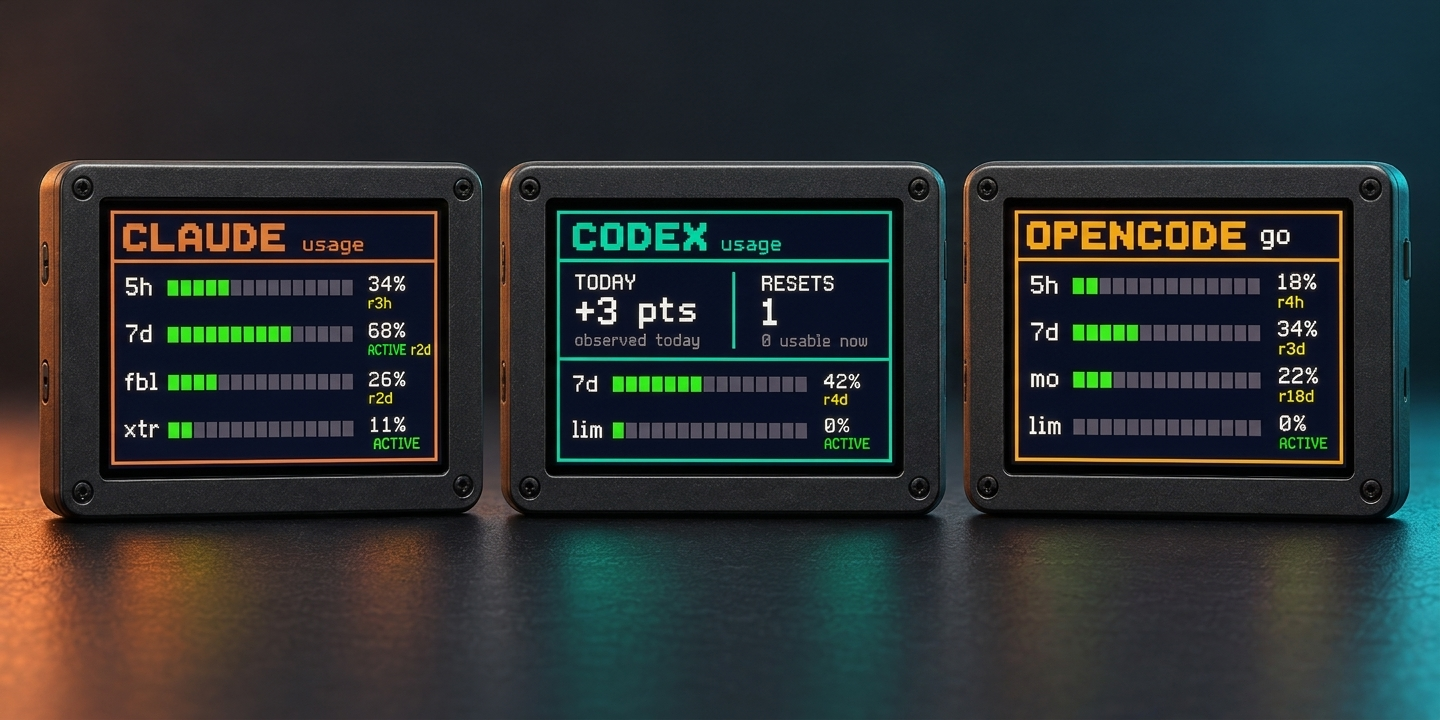
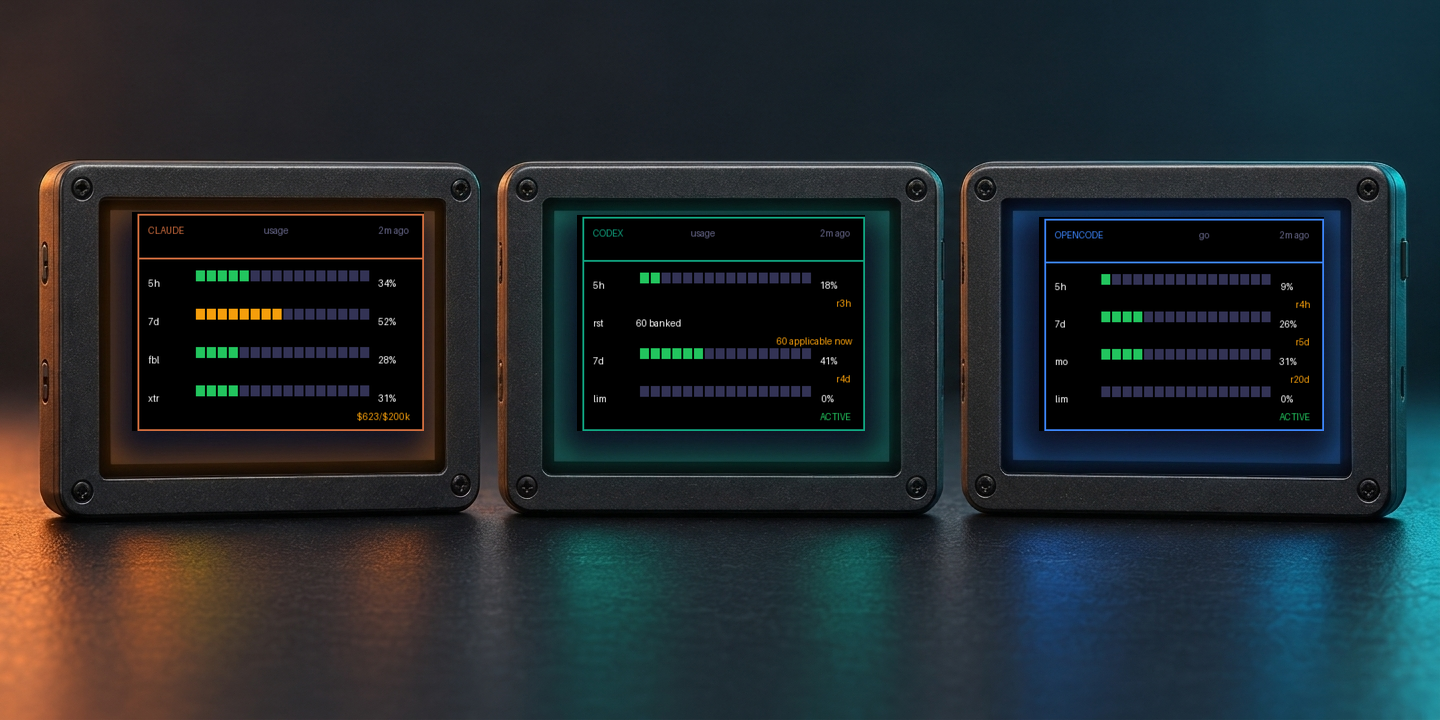
docs: composite hero from exact screen renders + AI scene
Two-stage pipeline replaces single-shot generation, whose failure mode
was re-inventing UI text and bar counts:
1. scripts/render-screens.py renders the three dashboard screens
   exactly as code.py draws them (real accents: CLAUDE orange #CC6B3D,
   CODEX teal #10A37F, OPENCODE blue #3B82F6; segmented bars whose fill
   always equals the printed percentage; verified with Jev).
2. Nano Banana generates the photorealistic scene with blank screens,
   with per-device glow specified explicitly (orange/teal/blue, local,
   no bleed); the exact screens are composited in deterministically.
Screen content is now correct by construction rather than by luck.

diff --git a/scripts/render-screens.py b/scripts/render-screens.py
@@ -1,0 +1,141 @@
+#!/usr/bin/env python3
+"""Render exact facsimiles of the three usage-dashboard screens.
+
+Replicates projects/usage-dashboard/code.py's layout and colors at native
+320x240 (then upscales) so the hero generator receives screens that are
+correct by construction: real accent colors, segmented bars whose fill
+always equals the printed percentage, and the real row labels.
+
+Usage: python scripts/render-screens.py [outdir]
+"""
+
+import sys
+from pathlib import Path
+
+from PIL import Image, ImageDraw, ImageFont
+
+W, H = 320, 240
+BLACK = (0, 0, 0)
+WHITE = (0xFF, 0xFF, 0xFF)
+ORANGE = (0xCC, 0x6B, 0x3D)
+TEAL = (0x10, 0xA3, 0x7F)
+BLUE = (0x3B, 0x82, 0xF6)
+SUB = (0x66, 0x66, 0x88)
+DIM = (0x33, 0x33, 0x55)
+GREEN = (0x22, 0xC5, 0x5E)
+AMBER = (0xF5, 0x9E, 0x0B)
+RED = (0xEF, 0x44, 0x44)
+
+BL = 6          # left border x
+Y_BTOP = 2
+Y_BSEP = 50
+Y_BBOT = H - 2
+ROW_SLOT = 42
+Y_ROW1 = Y_BSEP + 22
+TX_C = BL + 12
+RIGHT = W - 2 - 12
+
+BARS = 16
+CELL_W = 10
+BAR_GAP = 2
+BAR_H = 12
+
+try:
+    FONT_PATH = str(Path(__file__).resolve().parents[1] / "fonts" / "6x10.bdf")
+    FONT = ImageFont.load(FONT_PATH)
+except Exception:
+    FONT = ImageFont.load_default()
+
+
+def bar_color(pct):
+    if pct is None:
+        return DIM
+    if pct < 50:
+        return GREEN
+    if pct < 80:
+        return AMBER
+    return RED
+
+
+def draw_frame(d, title_main, title_sub, color):
+    for (x, y, w, h) in [
+        (BL, Y_BTOP, W - BL, 2), (BL, Y_BBOT, W - BL, 2),
+        (BL, Y_BTOP, 2, Y_BBOT - Y_BTOP + 2), (W - 2, Y_BTOP, 2, Y_BBOT - Y_BTOP + 2),
+        (BL, Y_BSEP, W - BL, 2),
+    ]:
+        d.rectangle([x, y, x + w - 1, y + h - 1], fill=color)
+    d.text((TX_C, 14), title_main, font=FONT, fill=color)
+    d.text((TX_C + (len(title_main) + 1) * 18, 14), title_sub, font=FONT, fill=SUB)
+    age = "2m ago"
+    d.text((RIGHT - len(age) * 6, 14), age, font=FONT, fill=SUB)
+
+
+def draw_bar_row(d, y, name, pct, reset_text, col, sub_text=None):
+    d.text((TX_C, y), name, font=FONT, fill=WHITE)
+    bx = TX_C + 4 * 12 + 4
+    filled = 0 if pct is None else max(0, min(BARS, BARS * int(pct) // 100))
+    for i in range(BARS):
+        cx = bx + i * (CELL_W + BAR_GAP)
+        if i < filled:
+            d.rectangle([cx, y - 8, cx + CELL_W - 1, y - 8 + BAR_H - 1], fill=col)
+        else:
+            d.rectangle([cx, y - 8, cx + CELL_W - 1, y - 8 + BAR_H - 1], fill=DIM)
+    pct_s = (" --%" if pct is None else (" " if pct < 10 else "") + str(int(pct)) + "%")
+    d.text((RIGHT - 3 * 12, y), pct_s, font=FONT, fill=SUB if pct is None else WHITE)
+    detail = (sub_text or "") + ((" " if sub_text and reset_text else "") + reset_text if reset_text else "")
+    if detail:
+        d.text((RIGHT - len(detail) * 6, y + 20), detail, font=FONT,
+               fill=GREEN if sub_text == "ACTIVE" else AMBER)
+
+
+def claude_screen():
+    im = Image.new("RGB", (W, H), BLACK)
+    d = ImageDraw.Draw(im)
+    draw_frame(d, "CLAUDE", "usage", ORANGE)
+    rows = [("5h ", 34, "r4h"), ("7d ", 52, "r2d"), ("fbl", 28, "r6d"), ("xtr", 31, "$623/$200k")]
+    y = Y_ROW1
+    for name, pct, sub in rows:
+        draw_bar_row(d, y, name, pct, "", bar_color(pct), sub if name == "xtr" else None)
+        y += ROW_SLOT
+    return im
+
+
+def codex_screen():
+    im = Image.new("RGB", (W, H), BLACK)
+    d = ImageDraw.Draw(im)
+    draw_frame(d, "CODEX", "usage", TEAL)
+    draw_bar_row(d, Y_ROW1, "5h ", 18, "r3h", bar_color(18))
+    # text row for reset credits
+    d.text((TX_C, Y_ROW1 + ROW_SLOT), "rst", font=FONT, fill=WHITE)
+    d.text((TX_C + 4 * 12, Y_ROW1 + ROW_SLOT), "60 banked", font=FONT, fill=WHITE)
+    d.text((RIGHT - 14 * 6, Y_ROW1 + ROW_SLOT + 20), "60 applicable now", font=FONT, fill=AMBER)
+    draw_bar_row(d, Y_ROW1 + 2 * ROW_SLOT, "7d ", 41, "r4d", bar_color(41))
+    draw_bar_row(d, Y_ROW1 + 3 * ROW_SLOT, "lim", 0, "", GREEN, "ACTIVE")
+    return im
+
+
+def opencode_screen():
+    im = Image.new("RGB", (W, H), BLACK)
+    d = ImageDraw.Draw(im)
+    draw_frame(d, "OPENCODE", "go", BLUE)
+    rows = [("5h ", 9, "r4h"), ("7d ", 26, "r5d"), ("mo ", 31, "r20d")]
+    y = Y_ROW1
+    for name, pct, sub in rows:
+        draw_bar_row(d, y, name, pct, sub, bar_color(pct))
+        y += ROW_SLOT
+    draw_bar_row(d, Y_ROW1 + 3 * ROW_SLOT, "lim", 0, "", GREEN, "ACTIVE")
+    return im
+
+
+def main():
+    outdir = Path(sys.argv[1] if len(sys.argv) > 1 else "/tmp/screens")
+    outdir.mkdir(parents=True, exist_ok=True)
+    for name, fn in [("claude", claude_screen), ("codex", codex_screen), ("opencode", opencode_screen)]:
+        im = fn()
+        big = im.resize((W * 4, H * 4), Image.NEAREST)
+        big.save(outdir / f"screen_{name}.png")
+        print(f"wrote {outdir}/screen_{name}.png")
+
+
+if __name__ == "__main__":
+    main()
